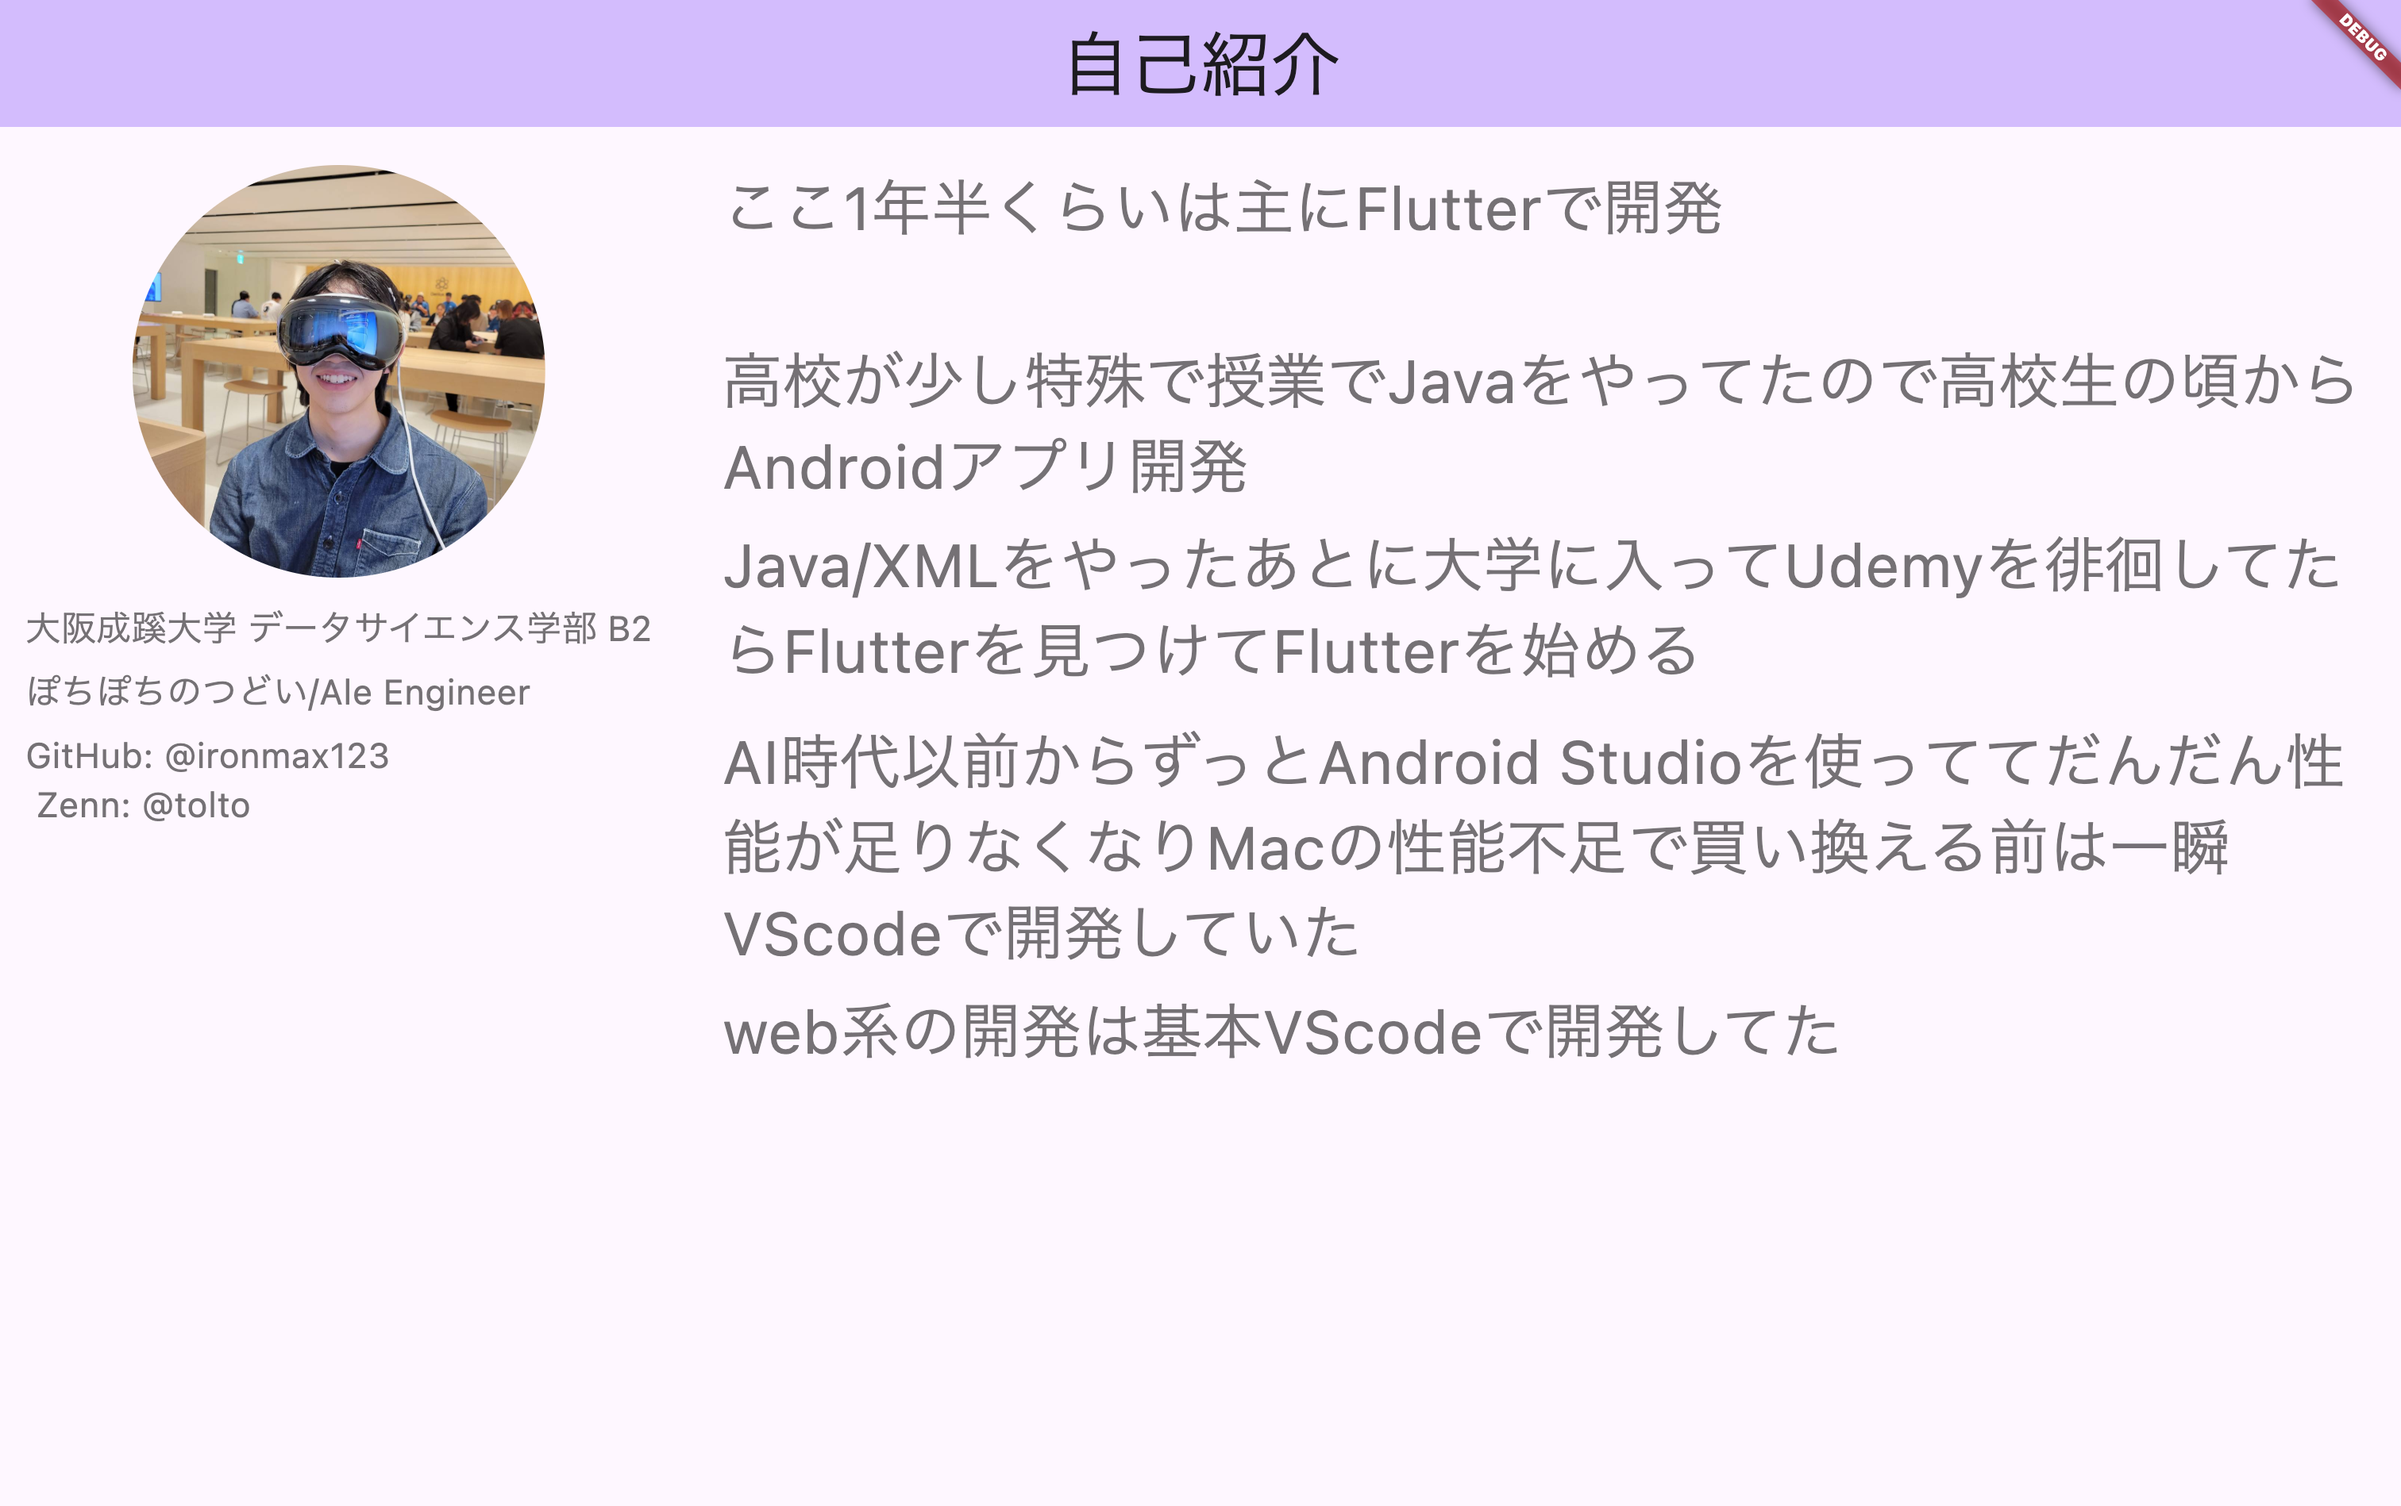
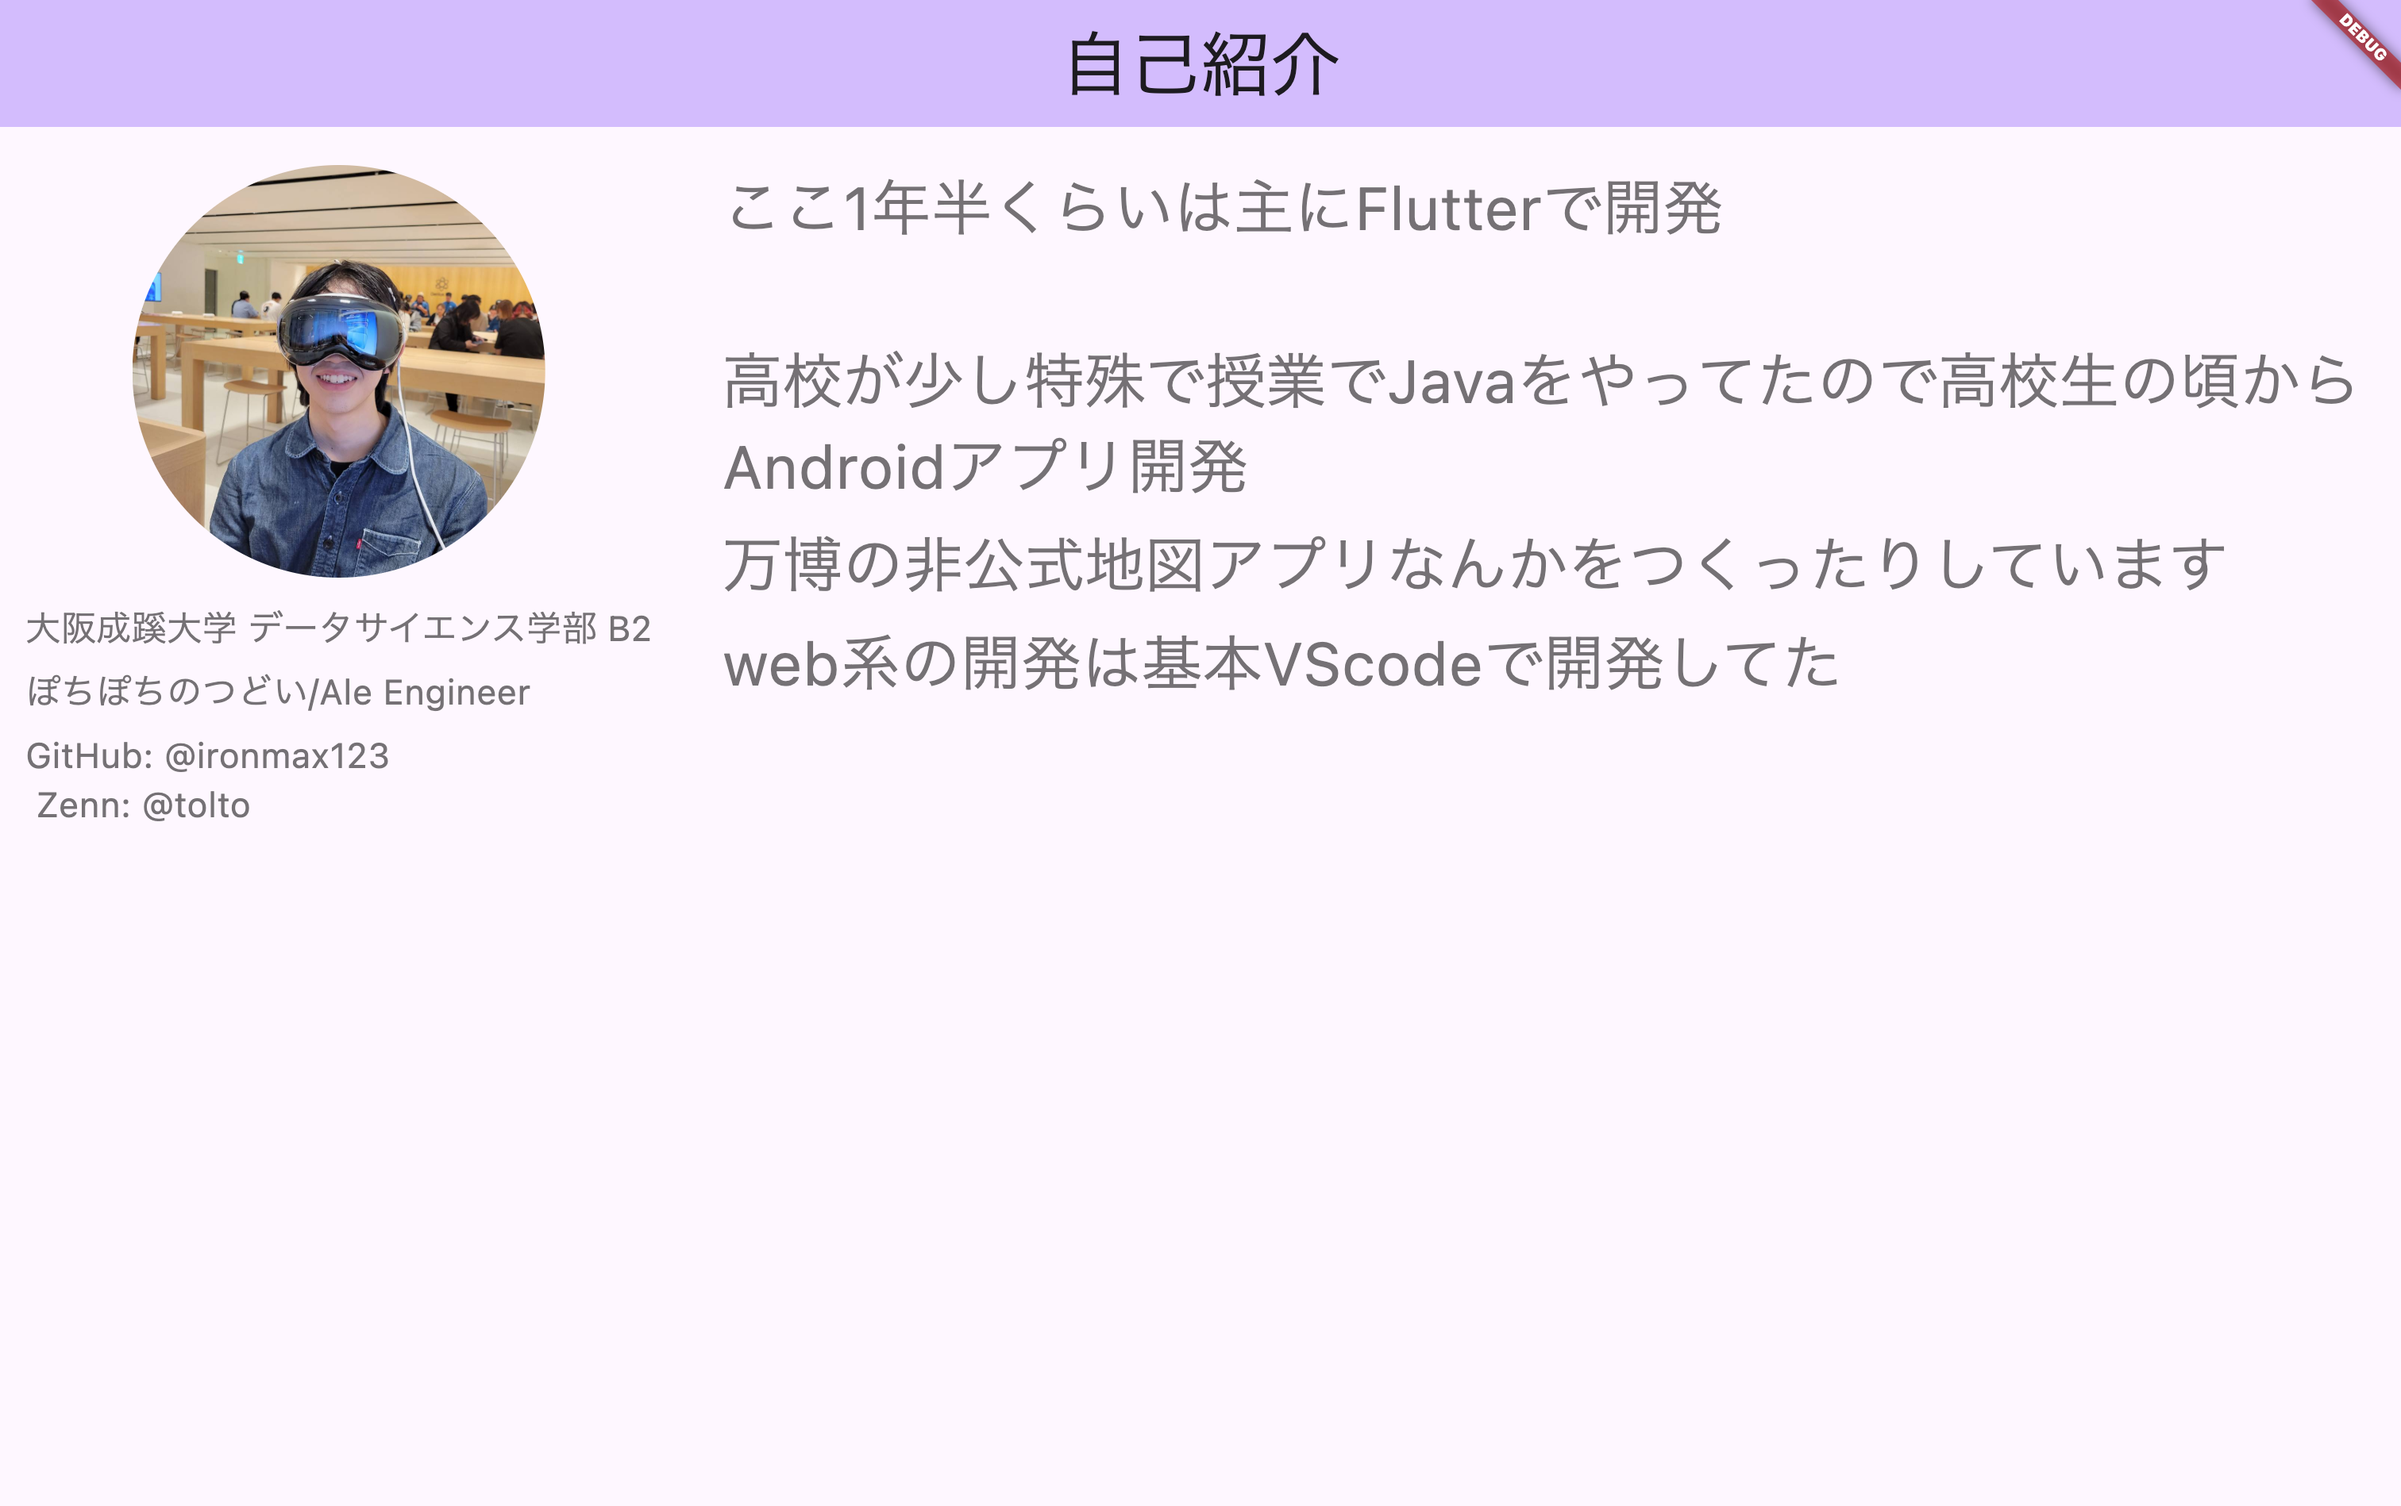
fix: 軽微な修正

Changed region(s): [[0.3108, 0.3419, 0.9947, 0.715], [0.746, 0.4352, 0.7771, 0.4663]]

diff --git a/lib/pages/page_2.dart b/lib/pages/page_2.dart
@@ -70,17 +70,18 @@ class Page2 extends HookConsumerWidget {
                 Gap(55),
                 PrimaryText(text: '高校が少し特殊で授業でJavaをやってたので高校生の頃からAndroidアプリ開発'),
                 Gap(8),
+                // PrimaryText(text: '万博の非公式地図アプリなんかをつくったりしています'),
                 PrimaryText(
                   text:
                       'Java/XMLをやったあとに大学に入ってUdemyを徘徊してたらFlutterを見つけてFlutterを始める',
                 ),
-                Gap(16),
-                PrimaryText(
-                  text:
-                      'AI時代以前からずっとAndroid Studioを使っててだんだん性能が足りなくなりMacの性能不足で買い換える前は一瞬VScodeで開発していた',
-                ),
-                Gap(8),
-                PrimaryText(text: 'web系の開発は基本VScodeで開発してた'),
+                // Gap(16),
+                // PrimaryText(
+                //   text:
+                //       'AI時代以前からずっとAndroid Studioを使っててだんだん性能が足りなくなりMacの性能不足で買い換える前は一瞬VScodeで開発していた',
+                // ),
+                // Gap(8),
+                // PrimaryText(text: 'web系の開発は基本VScodeで開発してた'),
               ],
             ),
           ),

diff --git a/integration_test/capture_slides_test.dart b/integration_test/capture_slides_test.dart
@@ -28,7 +28,7 @@ void main() {
     }
     directory.createSync();
 
-    const totalPages = 13;
+    const totalPages = 11;
 
     for (int i = 0; i < totalPages; i++) {
       // Wait for animations
